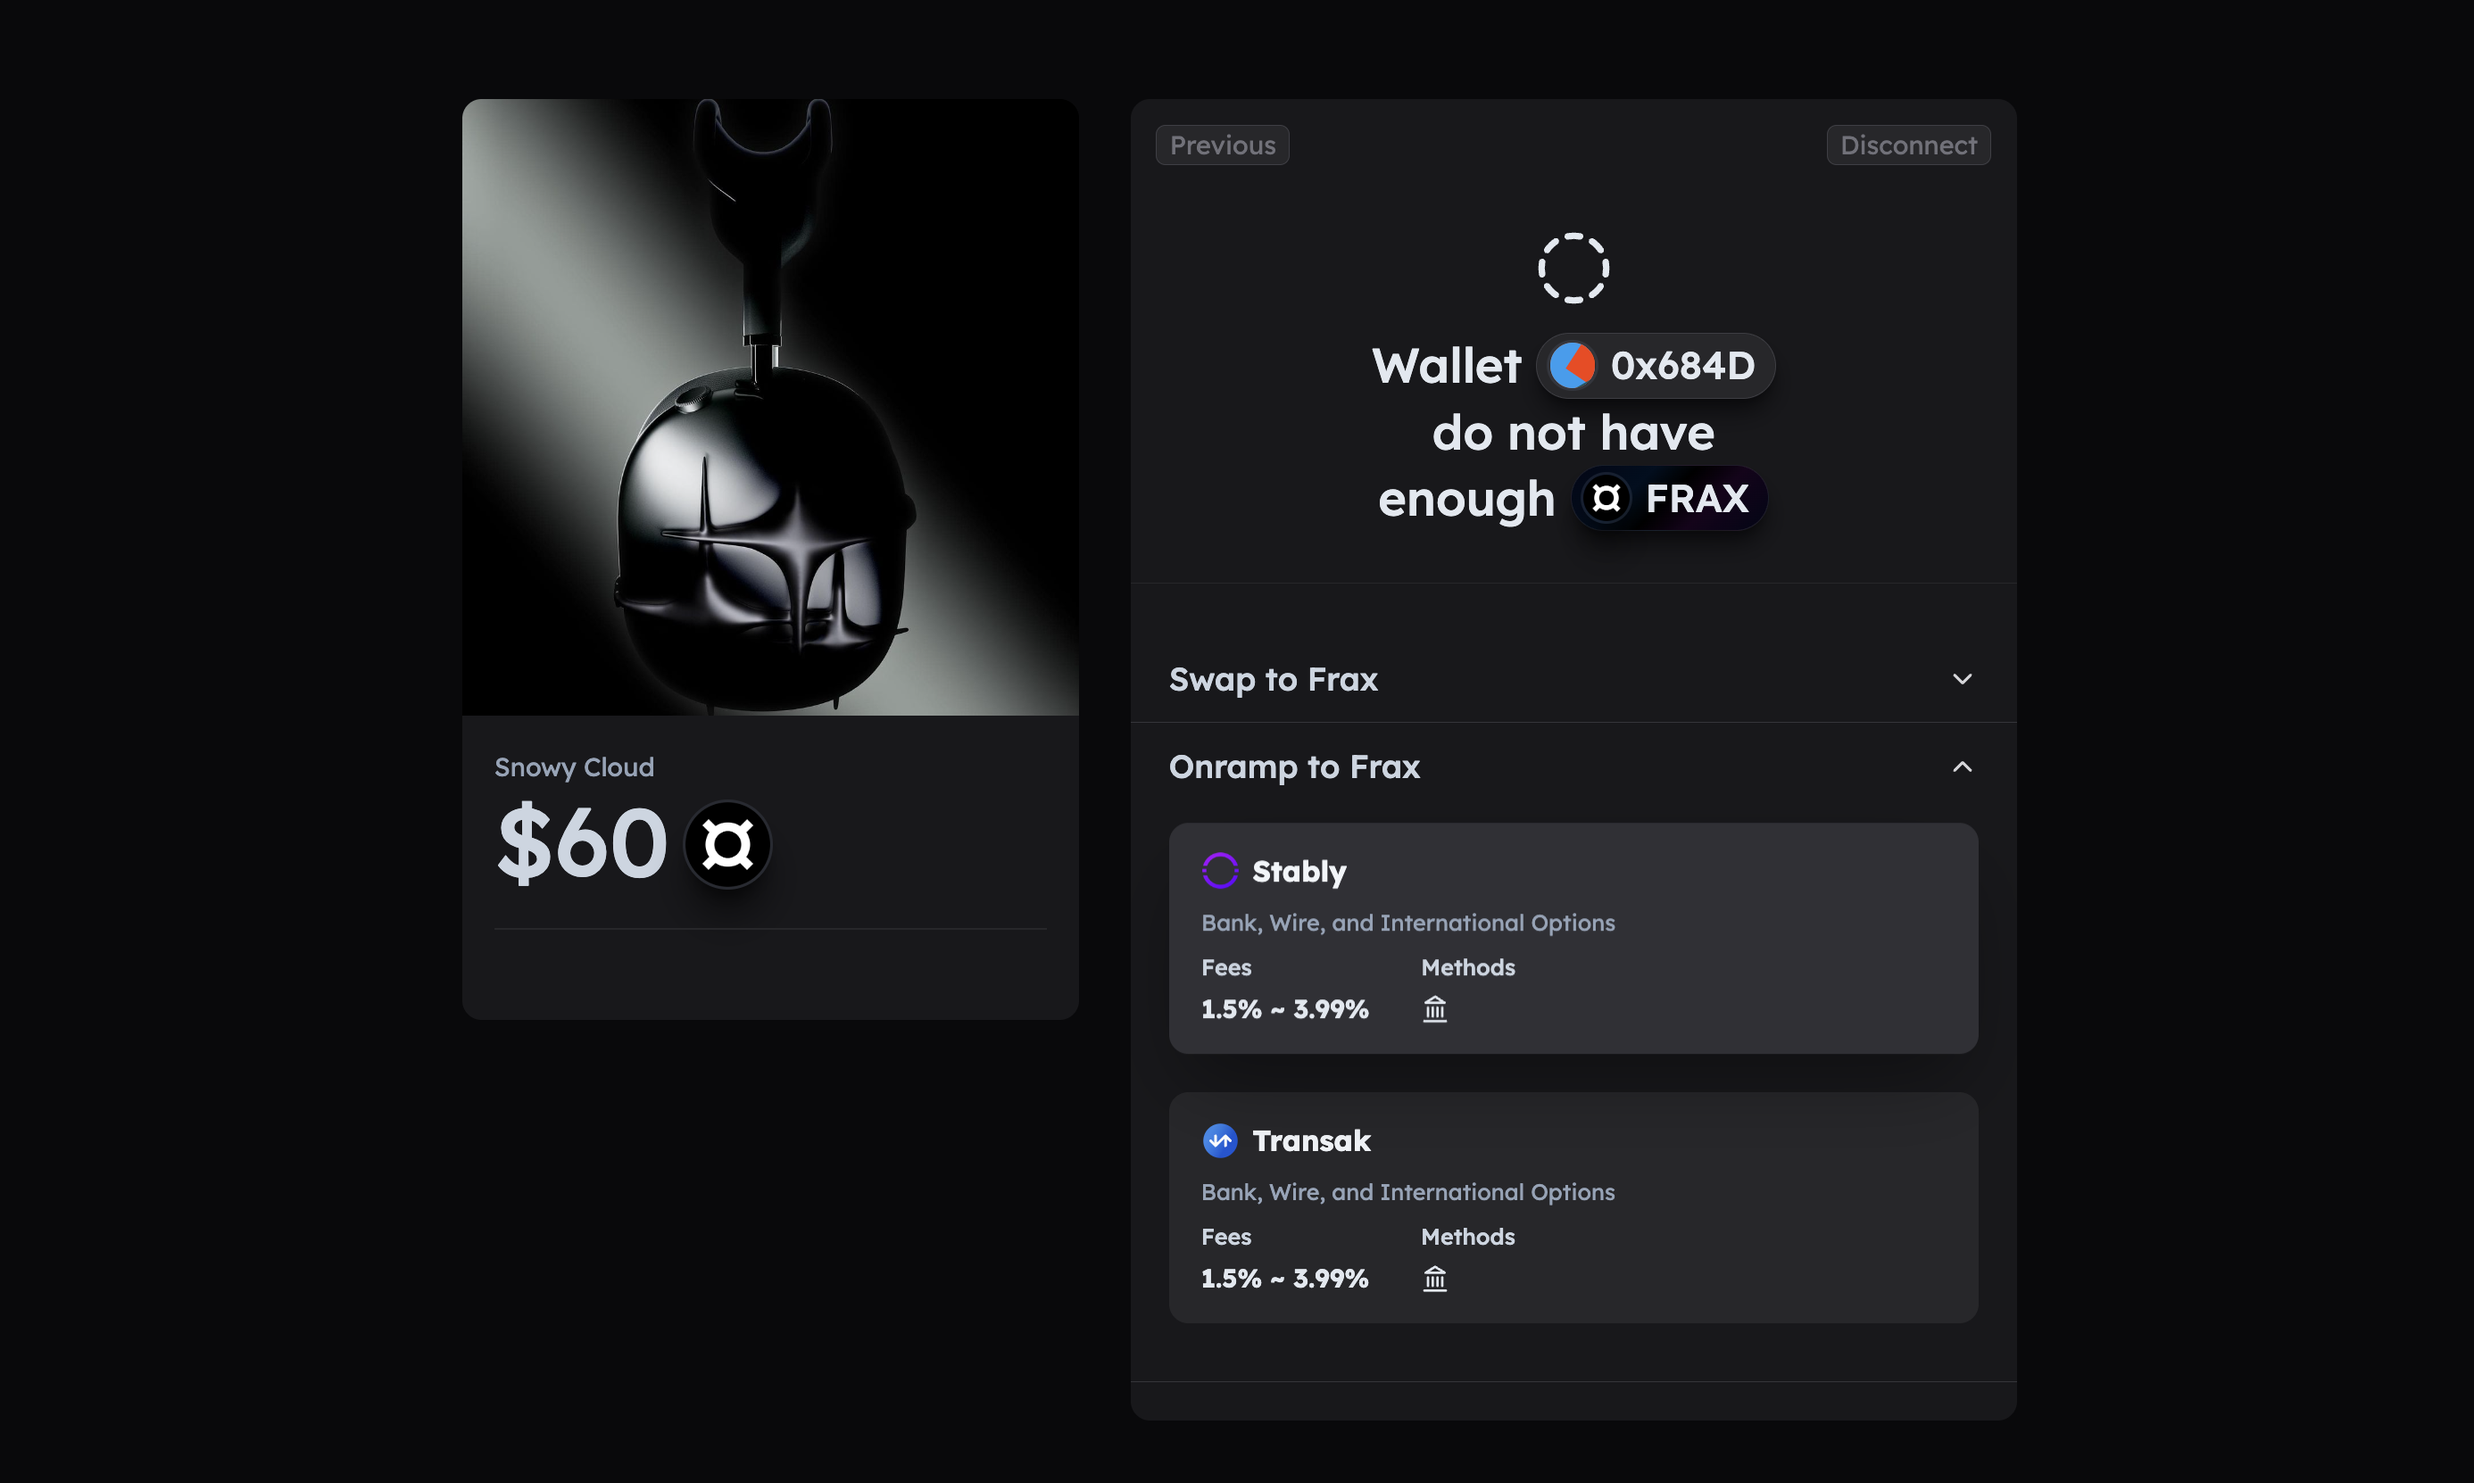
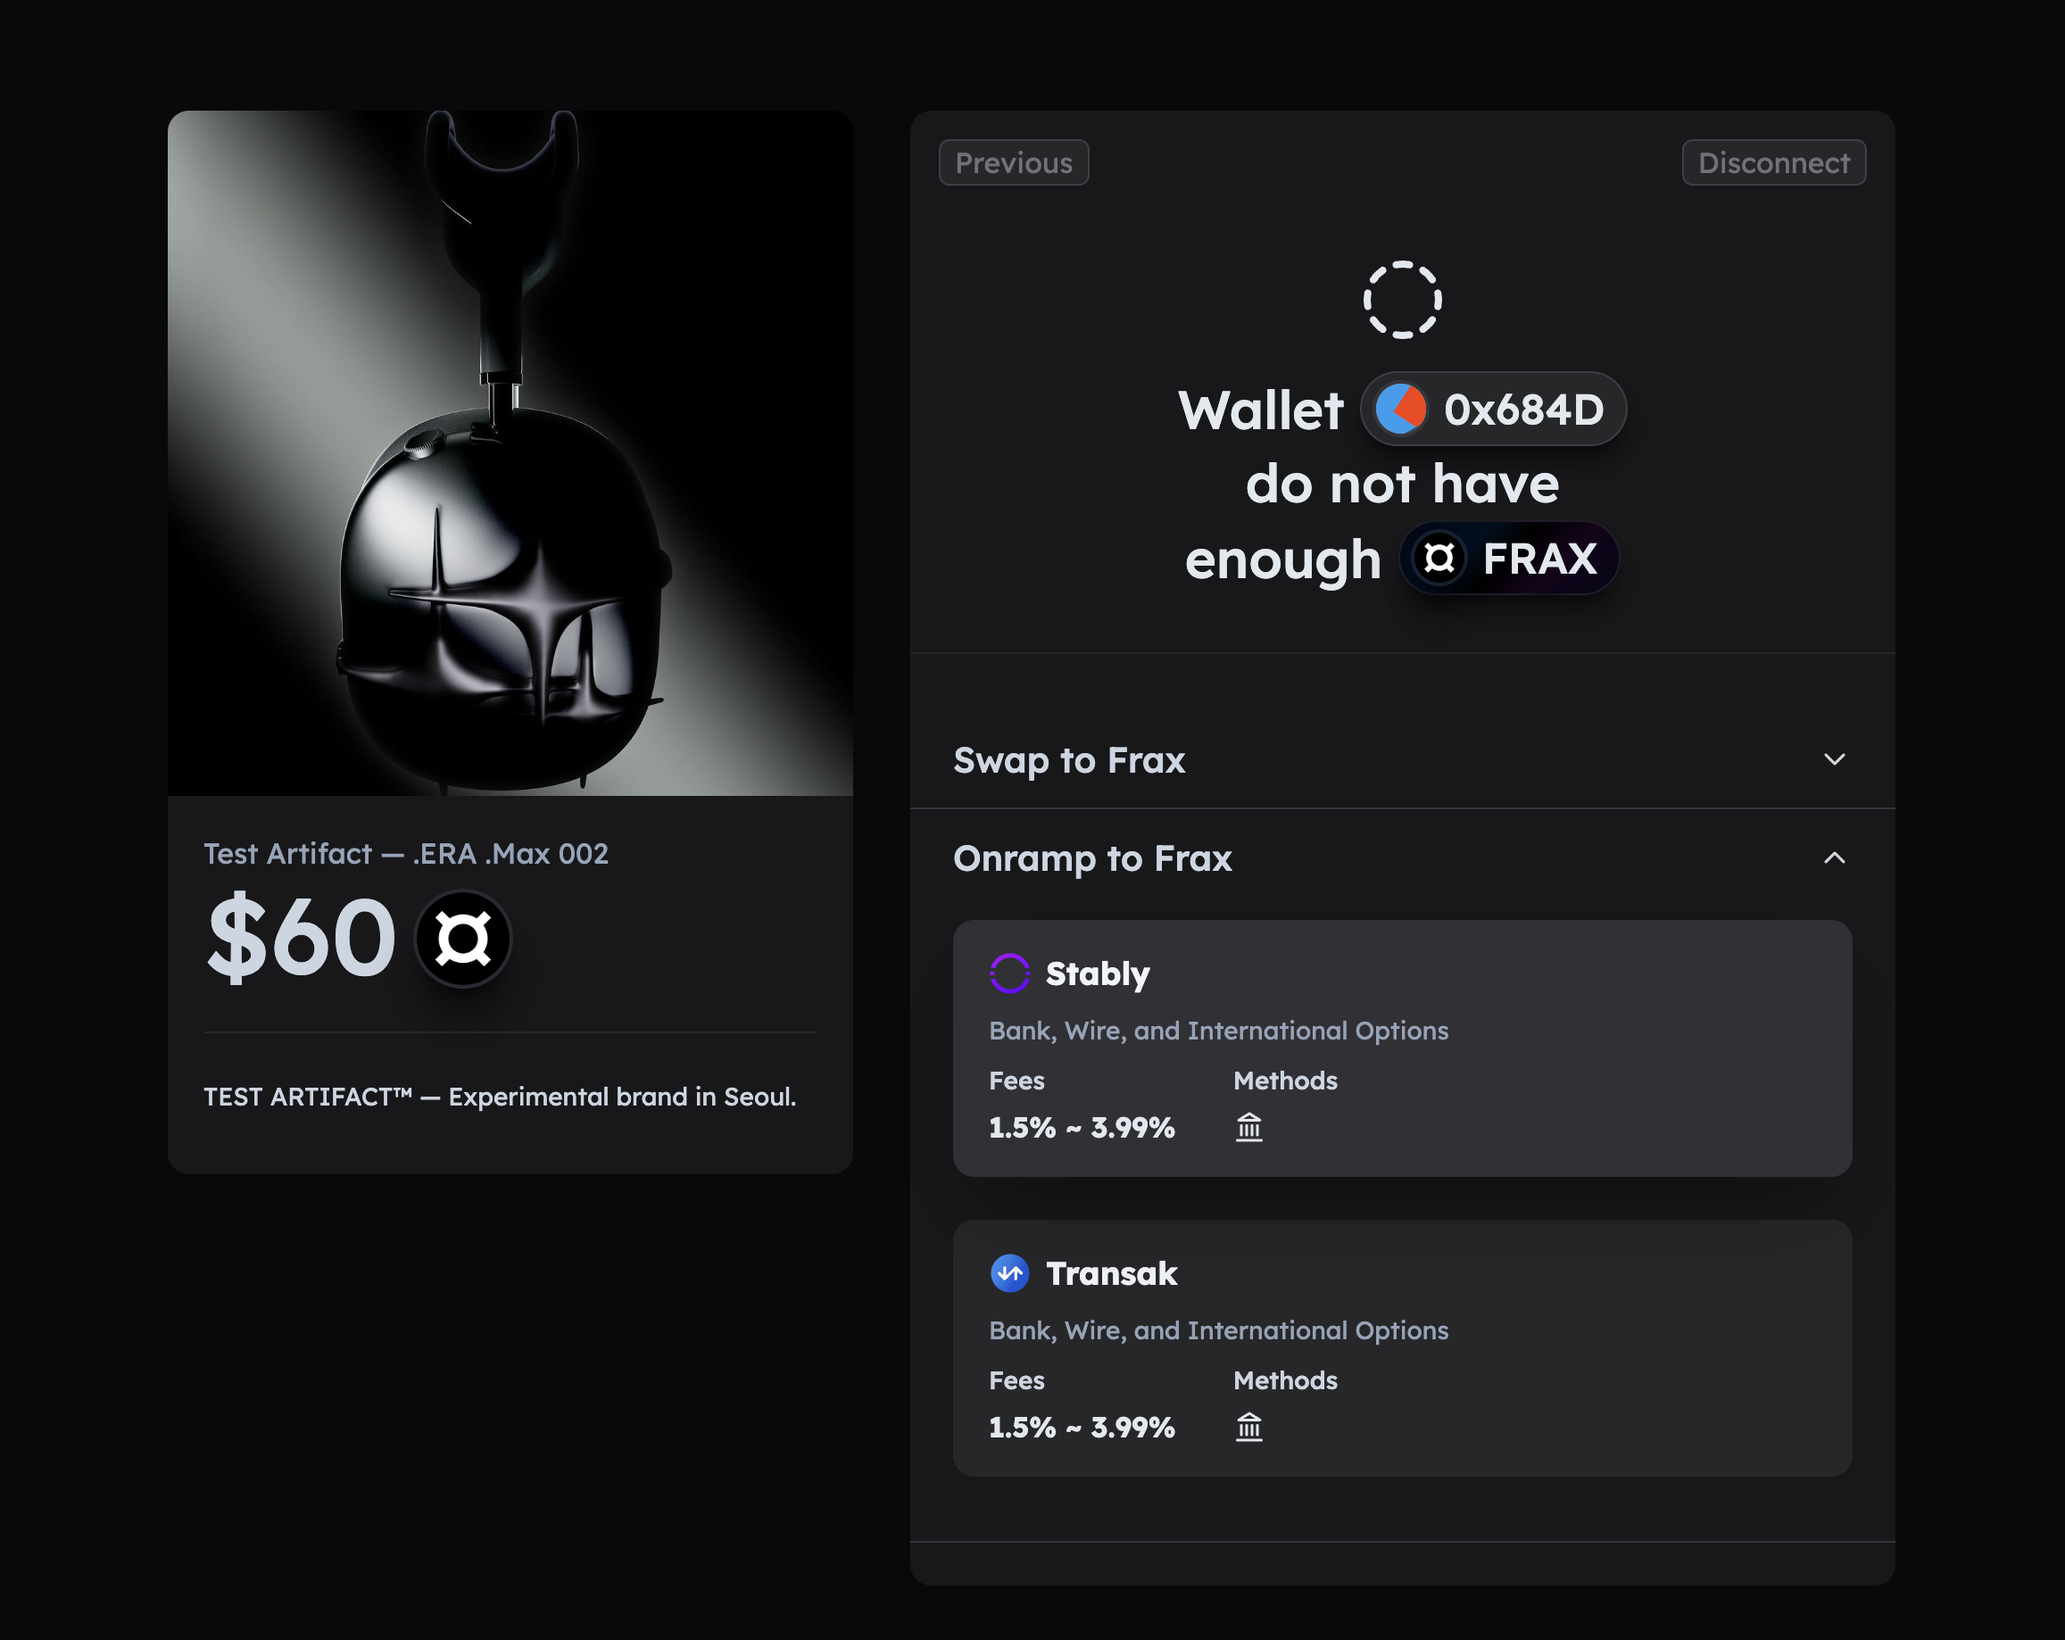
Update images, Add padding

diff --git a/interface/src/pay/PayPage.tsx b/interface/src/pay/PayPage.tsx
@@ -643,12 +643,14 @@ const PayPage: NextPage = () => {
 
                   <Separator className="my-8" />
 
-                  <button
-                    className="w-full py-3 mt-4 font-bold transition-colors bg-slate-100 rounded-xl text-zinc-800 hover:bg-slate-300"
-                    onClick={onClickPay}
-                  >
-                    Pay
-                  </button>
+                  <div className="px-5">
+                    <button
+                      className="w-full py-3 mt-4 font-bold transition-colors bg-slate-100 rounded-xl text-zinc-800 hover:bg-slate-300"
+                      onClick={onClickPay}
+                    >
+                      Pay
+                    </button>
+                  </div>
                 </div>
               </>
             )}

diff --git a/interface/src/pay/CreatePaymentLinkPage.tsx b/interface/src/pay/CreatePaymentLinkPage.tsx
@@ -316,7 +316,7 @@ const CreatePaymentLinkPage: NextPage<Props> = (props) => {
           priceDisplay={priceDisplay}
           imageURL={imageURL}
           imageRatio={1 / 1}
-          description="Lorem ipsum dolor sit amet, consectetur adipiscing elit, sed do eiusmod tempor incididunt ut labore et dolore magna aliqua."
+          description={description}
         />
       </div>
     </div>

diff --git a/README.md b/README.md
@@ -15,6 +15,7 @@
 ![](https://github.com/inevitable-dao/FraxPay/raw/main/.github/assets/connect-wallet.png)
 ![](https://github.com/inevitable-dao/FraxPay/raw/main/.github/assets/insufficient-amount-swap.png)
 ![](https://github.com/inevitable-dao/FraxPay/raw/main/.github/assets/insufficient-amount-onramp.png)
+![](https://github.com/inevitable-dao/FraxPay/raw/main/.github/assets/done.png)
 
 ## 🔴 Deployments
 
